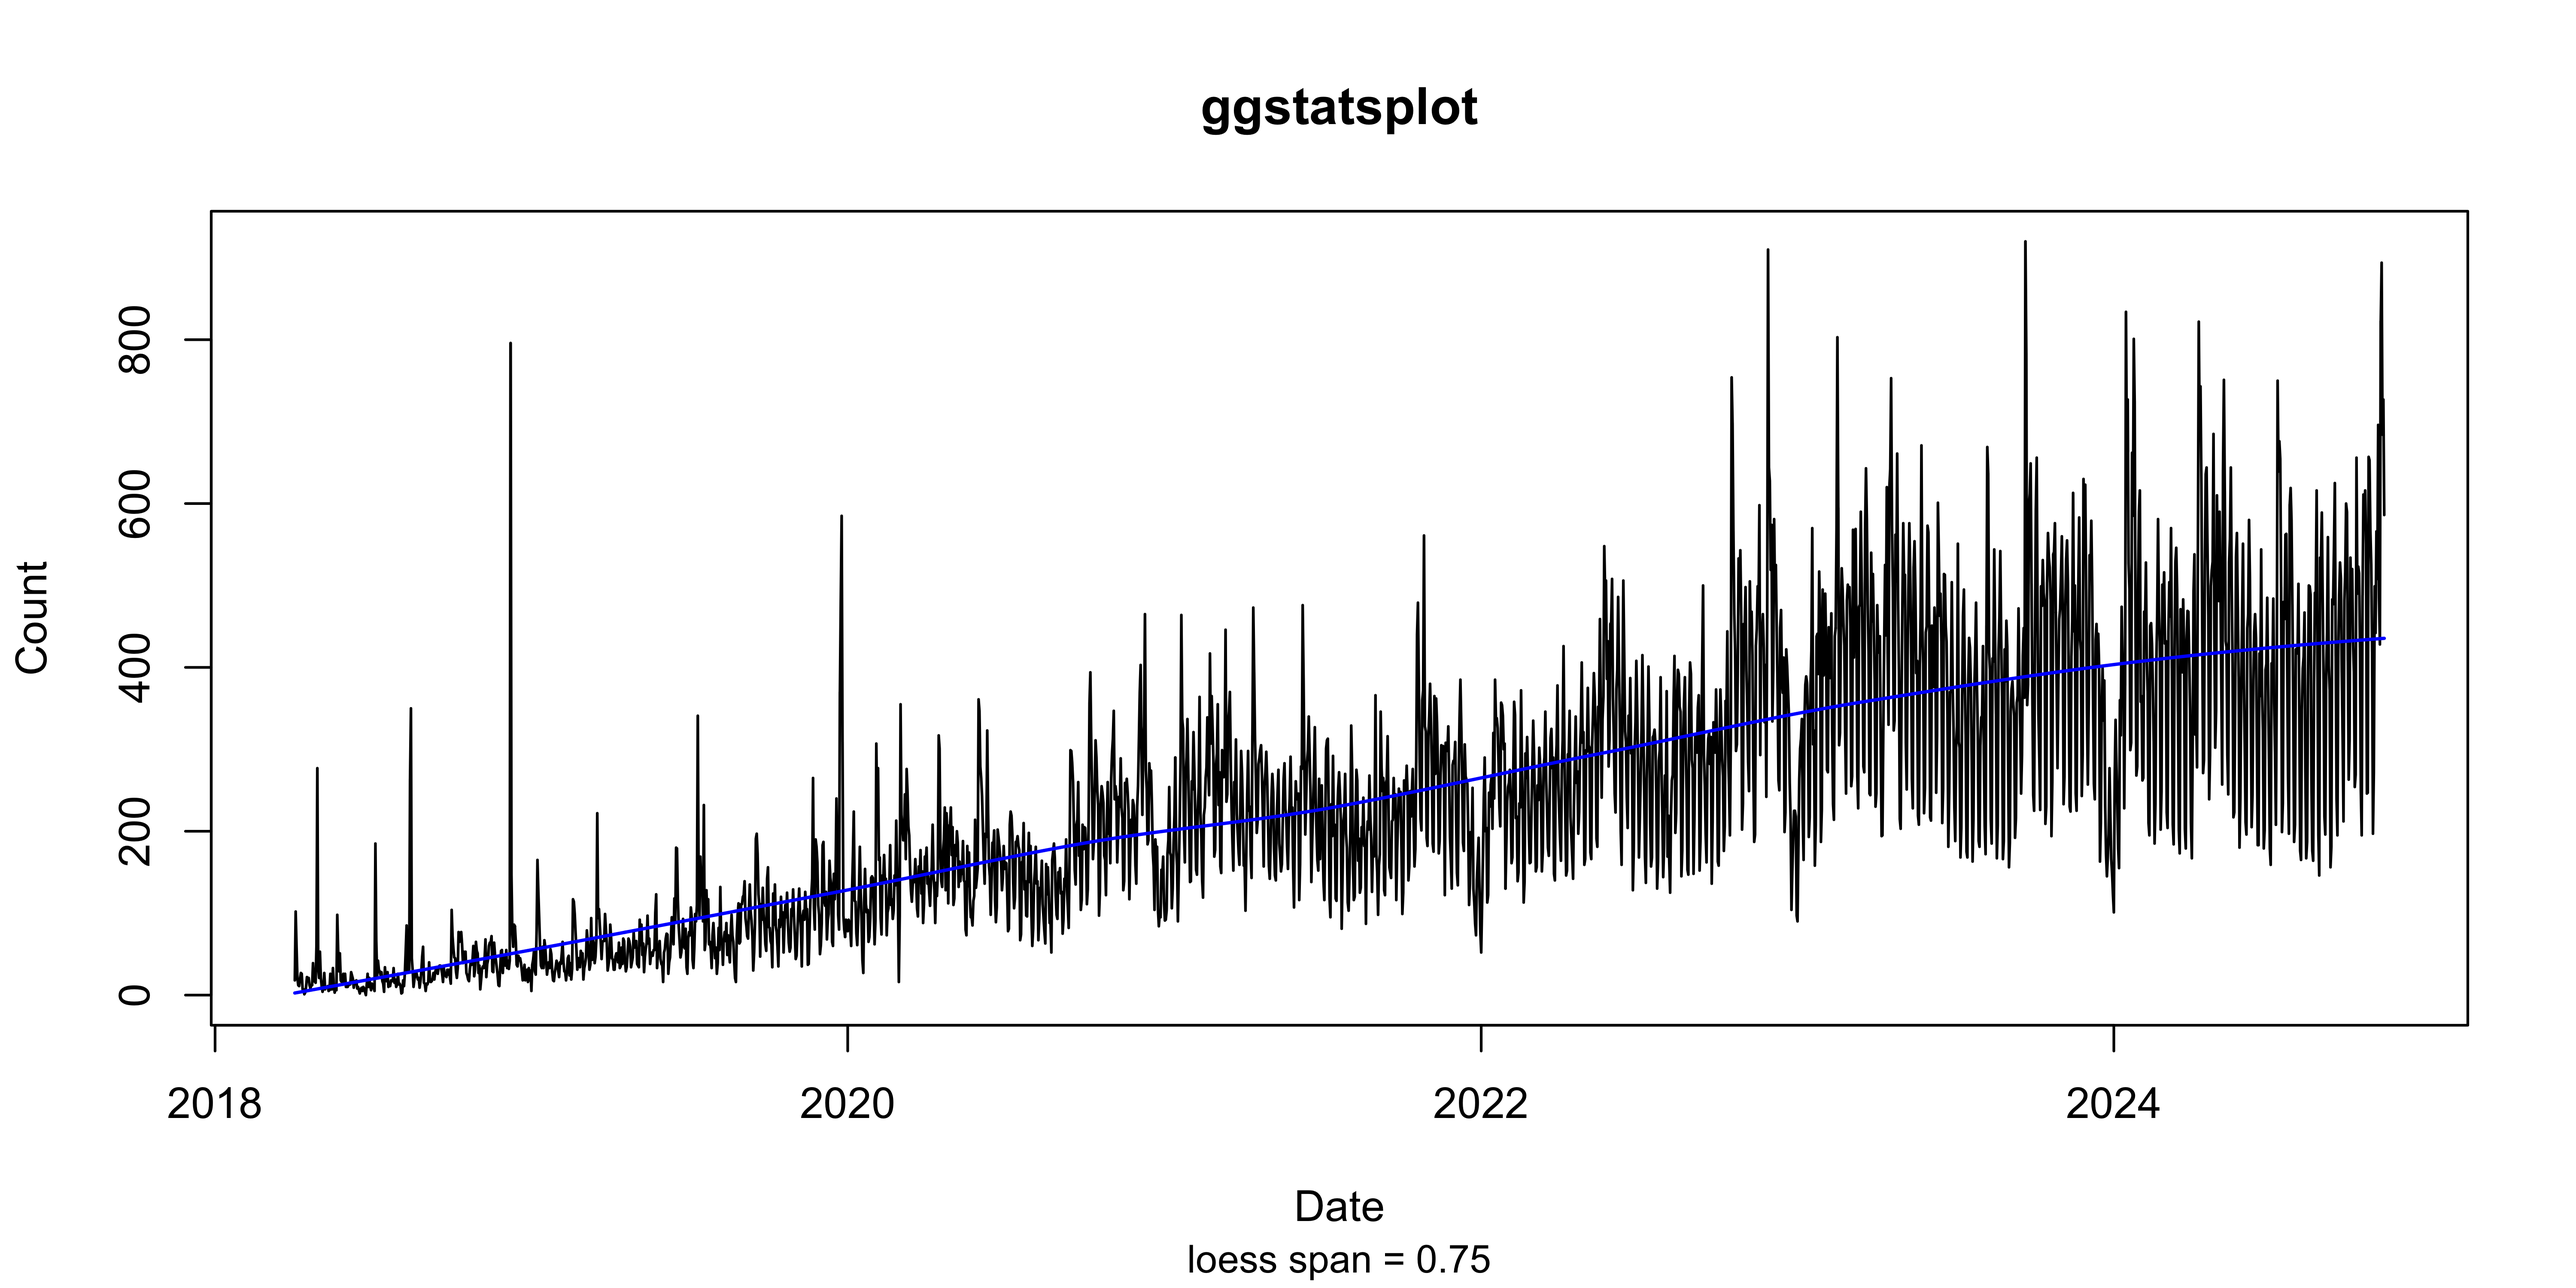
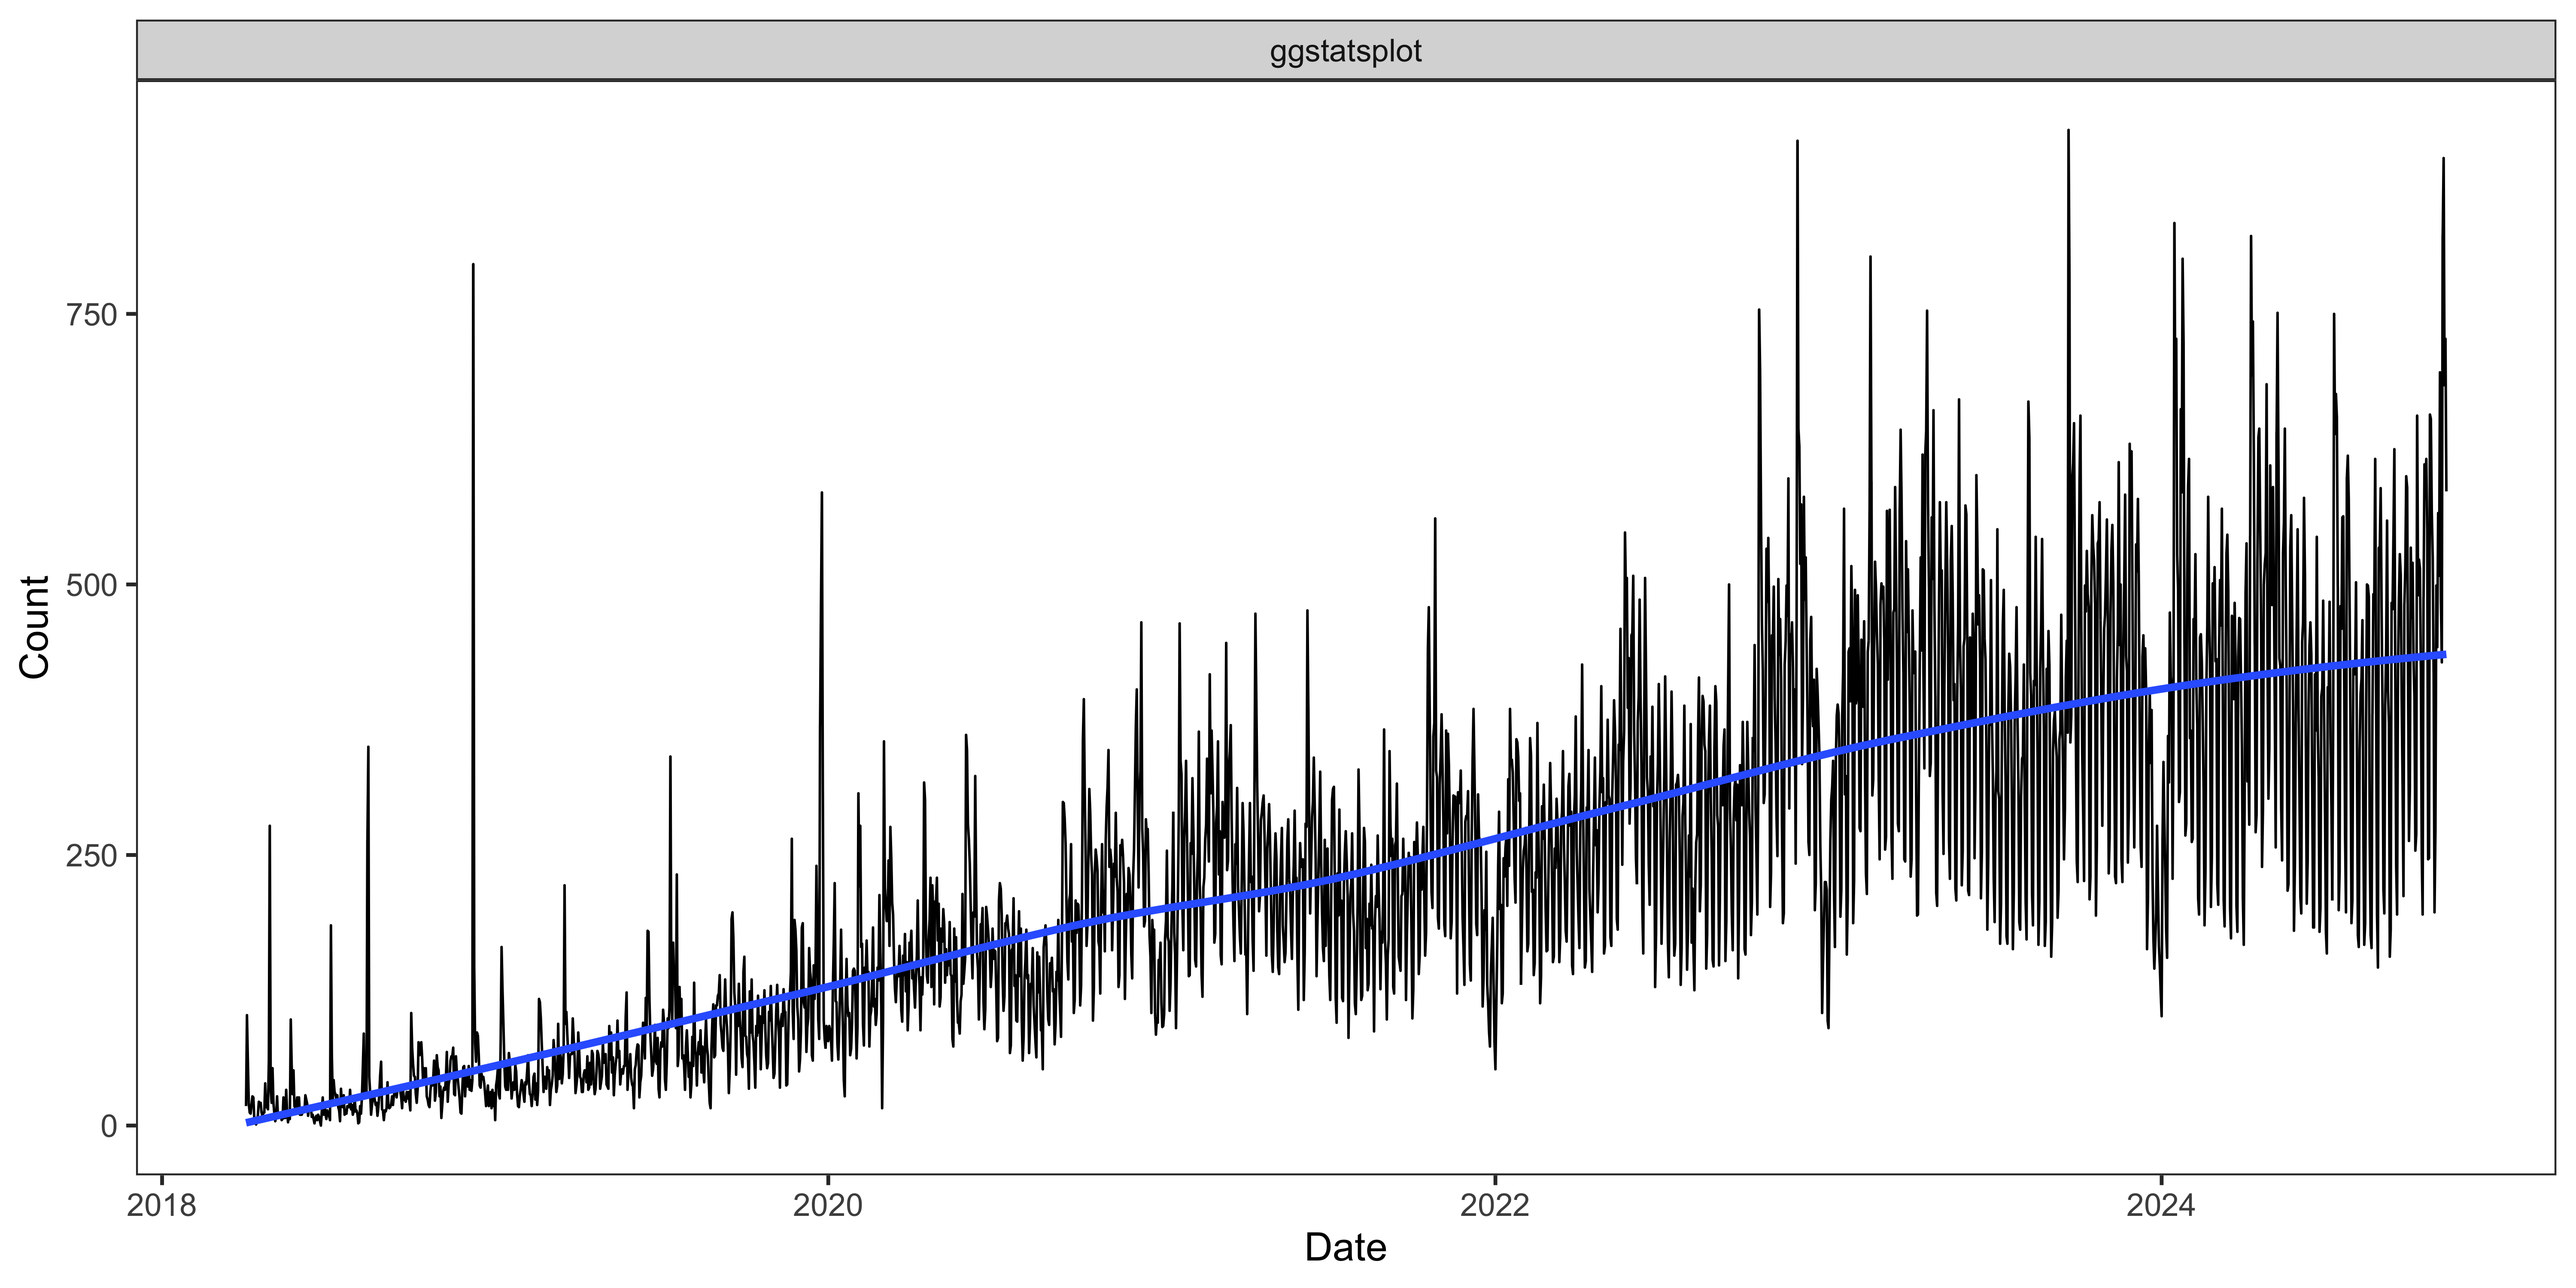
add positives

diff --git a/index.html b/index.html
@@ -499,23 +499,66 @@
 </div>
 </div></div>
 </div>
-</section></section><section><section id="reception" class="title-slide slide level1 center"><h1>Reception</h1>
+</section></section><section><section id="positives" class="title-slide slide level1 center"><h1>Positives</h1>
 
-</section><section id="usage" class="slide level2 smaller"><h2>Usage</h2>
-<p>Total downloads &gt; <strong>500K</strong></p>
+</section><section id="quality-assurance" class="slide level2 smaller"><h2>Quality Assurance</h2>
+<div class="columns">
+<div class="column" style="width:60%;">
+<p><img data-src="media/pr-qa.png"></p>
+</div><div class="column" style="width:40%;">
+<p>Right column</p>
+</div></div>
+</section><section id="reception" class="slide level2 smaller"><h2>Reception</h2>
+<div class="columns">
+<div class="column" style="width:50%;">
+<div class="callout callout-important callout-titled callout-style-default">
+<div class="callout-body">
+<div class="callout-title">
+<div class="callout-icon-container">
+<i class="callout-icon"></i>
+</div>
+<p><strong>Total downloads &gt; <strong>500K</strong> (97 percentile)</strong></p>
+</div>
+<div class="callout-content">
 <div class="cell">
 <div class="sourceCode cell-code" id="cb8"><pre class="sourceCode numberSource r number-lines code-with-copy"><code class="sourceCode r"><span id="cb8-1"><a href=""></a><span class="fu">library</span>(packageRank)</span>
 <span id="cb8-2"><a href=""></a><span class="fu">plot</span>(</span>
 <span id="cb8-3"><a href=""></a>  <span class="fu">cranDownloads</span>(<span class="st">"ggstatsplot"</span>, <span class="at">from =</span> <span class="st">"2018-04-03"</span>, <span class="at">to =</span> <span class="fu">Sys.Date</span>()),</span>
-<span id="cb8-4"><a href=""></a>  <span class="at">smooth =</span> <span class="cn">TRUE</span></span>
+<span id="cb8-4"><a href=""></a>  <span class="at">graphics =</span> <span class="st">"ggplot2"</span>, <span class="at">smooth =</span> <span class="cn">TRUE</span></span>
 <span id="cb8-5"><a href=""></a>)</span></code><button title="Copy to Clipboard" class="code-copy-button"><i class="bi"></i></button></pre></div>
-
+<div class="cell-output-display">
+<div>
+<figure><p><img data-src="index_files/figure-revealjs/unnamed-chunk-4-1.png" width="3000"></p>
+</figure>
 </div>
-<img data-src="index_files/figure-revealjs/unnamed-chunk-4-1.png" width="3000" class="r-stretch"></section></section><section><section id="conclusion" class="title-slide slide level1 center"><h1>Conclusion</h1>
+</div>
+</div>
+</div>
+</div>
+</div>
+<p><img data-src="media/ggstats-stars.png"></p>
+</div><div class="column" style="width:50%;">
+<div class="callout callout-tip callout-titled callout-style-default">
+<div class="callout-body">
+<div class="callout-title">
+<div class="callout-icon-container">
+<i class="callout-icon"></i>
+</div>
+<p><strong>Total citations &gt; <strong>1000</strong></strong></p>
+</div>
+<div class="callout-content">
+<p><img data-src="media/ggstats-paper.png"></p>
+</div>
+</div>
+</div>
+<p><img data-src="media/ggstats-citations.png"></p>
+</div></div>
+</section></section><section><section id="conclusion" class="title-slide slide level1 center"><h1>Conclusion</h1>
 
 </section><section id="exploring-data-made-easy" class="slide level2 smaller"><h2>Exploring data made easy! 😉</h2>
 <p>In summary, the <code>ggstatsplot</code> approach- <br><br> (<em>a</em>) avoids errors in statistical reporting, <br><br> (<em>b</em>) highlights the importance of the effect by providing effect size measures by default, <br><br> (<em>c</em>) provides an easy way to evaluate <em>absence</em> of an effect using Bayesian framework, <br><br> (<em>d</em>) demands to evaluate statistical analysis in the context of the underlying data, <br><br> and is (<em>e</em>) easy and (<em>f</em>) simple enough that somebody with little coding experience can use it without making an error.</p>
 </section></section><section id="for-more" class="title-slide slide level1 center"><h1>For more</h1>
+<p>Source code for these slides can be found <a href="https://github.com/IndrajeetPatil/ggstatsplot_slides" target="_blank">on GitHub</a>.</p>
 <p>If you are interested in good programming and software development practices, check out my other <a href="https://sites.google.com/site/indrajeetspatilmorality/presentations" target="_blank">slide decks</a>.</p>
 </section><section id="find-me-at" class="title-slide slide level1 center"><h1>Find me at…</h1>
 <p><i class="fa-brands fa-twitter" aria-label="twitter"></i> <a href="http://twitter.com/patilindrajeets" target="_blank">Twitter</a></p>
@@ -1237,7 +1280,7 @@
 </div>
   <div class="quarto-auto-generated-content" style="display: none;">
 <div class="footer footer-default">
-<p>Source code for these slides can be found <a href="https://github.com/IndrajeetPatil/ggstatsplot_slides" target="_blank">on GitHub</a>.</p>
+
 </div>
 </div></div>
 
